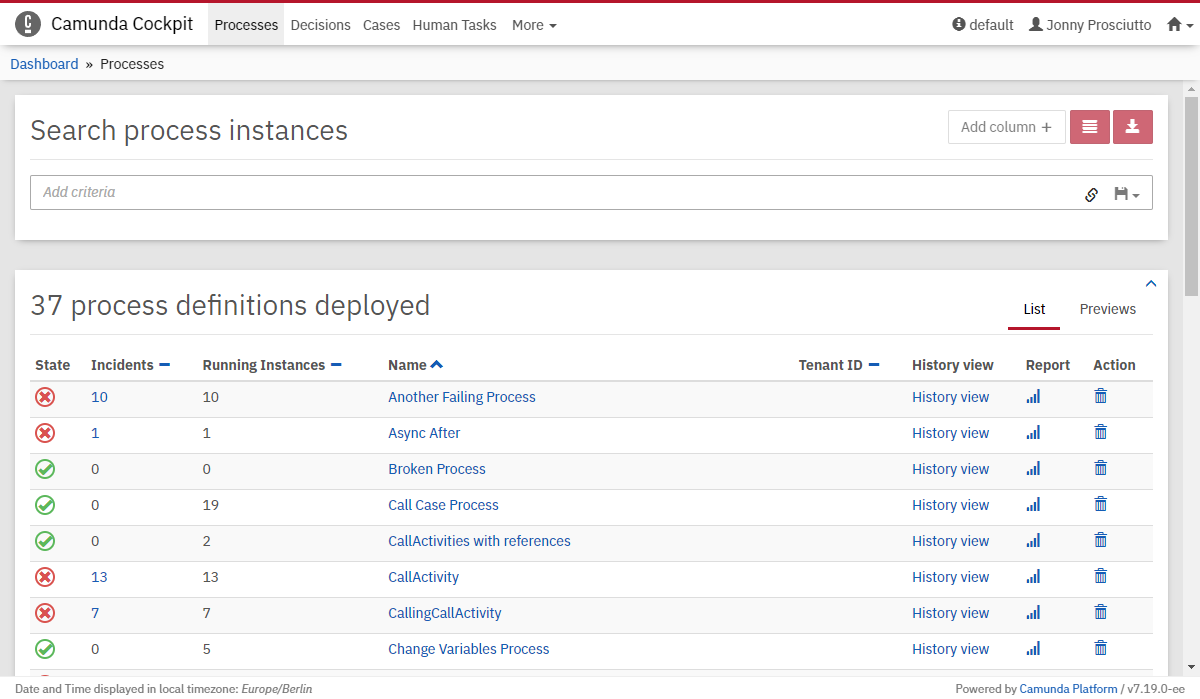
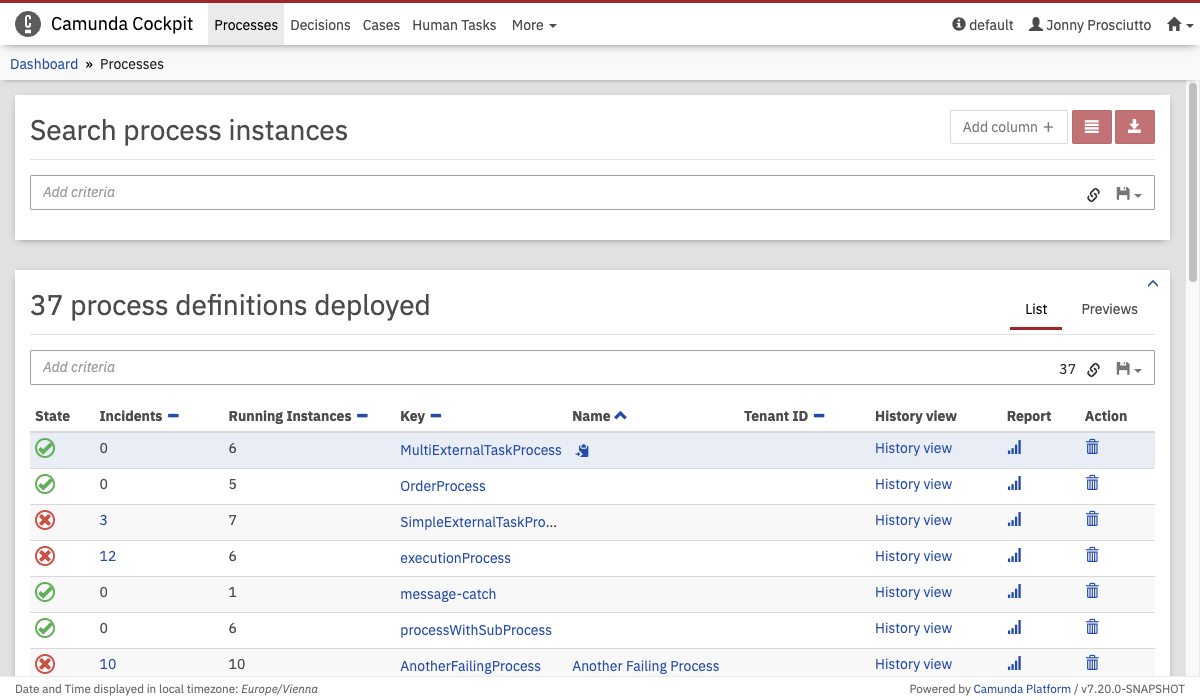
chore(docs): process definition search
related to camunda/camunda-bpm-platform#3766

diff --git a/content/webapps/cockpit/bpmn/dashboard.md b/content/webapps/cockpit/bpmn/dashboard.md
@@ -15,23 +15,34 @@ menu:
 The processes dashboard of Cockpit is the entry point for process monitoring. It comes with a pre-installed plugin, which lets you see deployed process definitions. Additional [plugins]({{< ref "/webapps/cockpit/extend/plugins.md" >}}) can be added to the processes dashboard.
 
 
-# Deployed processes
+# Deployed Processes
 
 {{< img src="../../img/cockpit-process-definition-state.png" title="Deployed Processes" >}}
 
 With this plugin you can easily observe the state of a process definition. Green and red dots signalize running and [failed jobs][failed-jobs]. At this observing level a red dot signifies that there is at least one process instance or a sub process instance which has an unresolved incident. You can localize the problem by using the [process definition view][process-definition-view].
 
+{{< img src="../../img/cockpit-deployed-processes-search.png" title="cockpit Search" >}}
+
+With the search component above the table, you can search for deployed processes by their name or key.
+To do so, click in the search box and select the property.
+Both of these search properties support the 'like' operator, which allows searching for process definitions where the entered value is a substring of the property value.
+
+Furthermore, you can copy a link to the current search query to your clipboard by clicking on
+the <button class="btn btn-xs"><i class="glyphicon glyphicon-link"></i></button> button and you can
+save search queries to your local browser storage by clicking on
+the <button class="btn btn-xs"><i class="glyphicon glyphicon-floppy-disk"></i></button> button and
+inserting a name in the drop-down menu that appears. You can then retrieve the search query by
+clicking on the <button class="btn btn-xs"><i class="glyphicon glyphicon-floppy-disk"></i></button>
+button and selecting the chosen name in the drop-down menu.
 
 {{< img src="../../img/cockpit-deployed-processes.png" title="Rendered Process Preview" >}}
 
 You can also switch to the preview tab which displays the rendered process model of each deployed process. Additionally, you get information about how many instances of the process are currently running and about the process state. Green and red dots signalize running and [failed jobs][failed-jobs]. Click on the model to go to the [process definition view][process-definition-view].
 
-
 [process-definition-view]: {{< ref "/webapps/cockpit/bpmn/process-definition-view.md" >}}
 [failed-jobs]: {{< ref "/webapps/cockpit/bpmn/failed-jobs.md" >}}
 
-
-# Search
+# Process Instances Search
 
 {{< enterprise >}}
 Please note that this feature is only included in the enterprise edition of the Camunda Platform, it is not available in the community edition.
